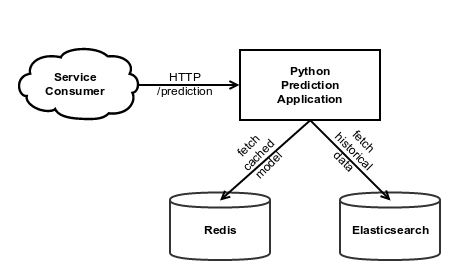
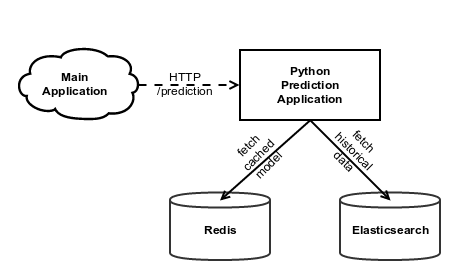
Docker fueled microservices v3

Changed region(s): [[0.0903, 0.2571, 0.2409, 0.3429], [0.3011, 0.2857, 0.5118, 0.3143]]

diff --git a/_posts/2015-07-13-docker-fueled-microservices.md b/_posts/2015-07-13-docker-fueled-microservices.md
@@ -150,7 +150,7 @@ Here is where [Docker](https://www.digitalocean.com/community/tutorials/how-to-i
 and [Linux containers (LXC)](https://en.wikipedia.org/wiki/LXC) came into the mix.  If you are not
 familiar with these technologies, you might want to read those links for context.
 An oversimplified description of Docker is that it is a way to
-bundle applications with their Linux runtime environment into a **container**-- the packages,
+bundle applications with their Linux runtime environment into a *container* -- the packages,
 software, libraries and resources needed for the application to do its job.
 These applications run within their own process/user/filesystem sandbox on a host
 machine and with their own network interface.  Containers are similar to a virtual
@@ -205,7 +205,7 @@ elasticsearch:
 
 # Microservice app
 predictor:
-  image: shippingeasy/autoship_predictor:1.1.2
+  image: se/autoship:1.0.0
 links:
   - redis
   - elasticsearch
@@ -265,7 +265,7 @@ microservice infrastructure in production looks like this:
 
 <img src="{{ site.url }}/assets/images/autoship_infrastructure.png"/>
 
-* On predictor01, our primary host, we run an Haproxy load balancer container.
+* On the gateway host, we run an Haproxy load balancer container.
 It is exposed to our internal network segment via port 80.  This is the
 predictor endpoint that our main application communicates to.  Haproxy will
 receive the requests and then round-robin them to any application containers
@@ -294,7 +294,7 @@ deploying a new version of the container serially a host at a time.
 <img style="float: right; padding-left: 20px" src="{{ site.url }}/assets/images/spinal_tap_meme.jpg"/>
 This gives us a modestly elastic ability to scale the predictor application
 independently of our primary application.  The primary application only ever
-communicates via HTTP to predictor01 on port 80 (the haproxy loadbalancer).
+communicates via HTTP to the gateway host on port 80 (the haproxy loadbalancer).
 Behind that, we can bring new hosts up and down to scale as needed and they are
 brought into and removed from rotation via Serf’s magic.
 
